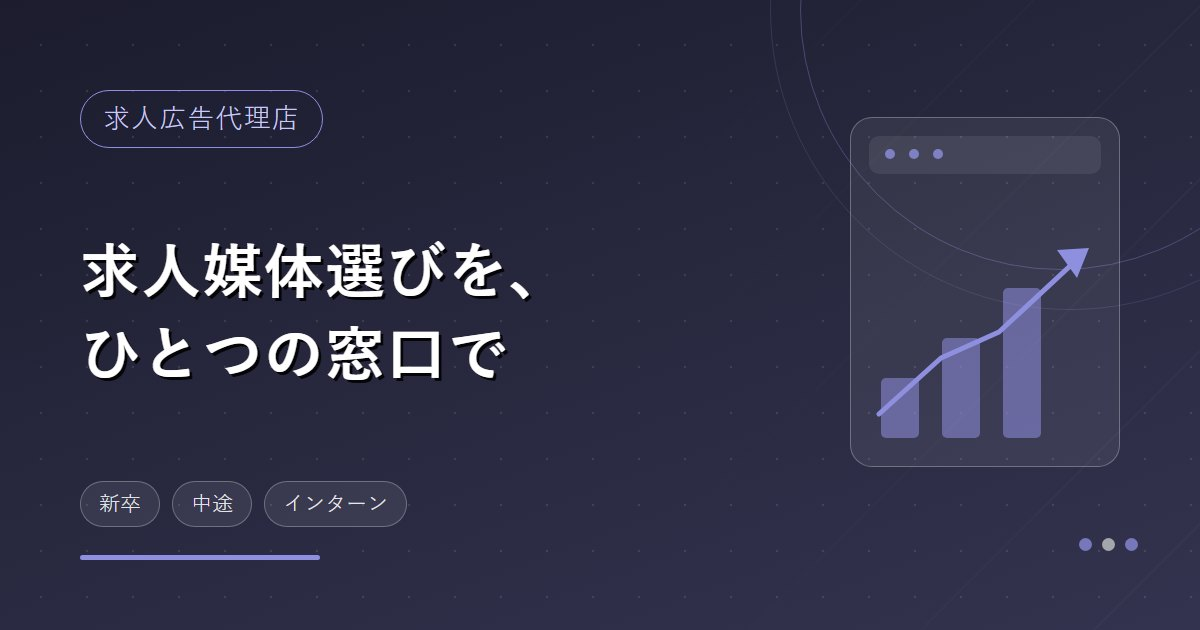
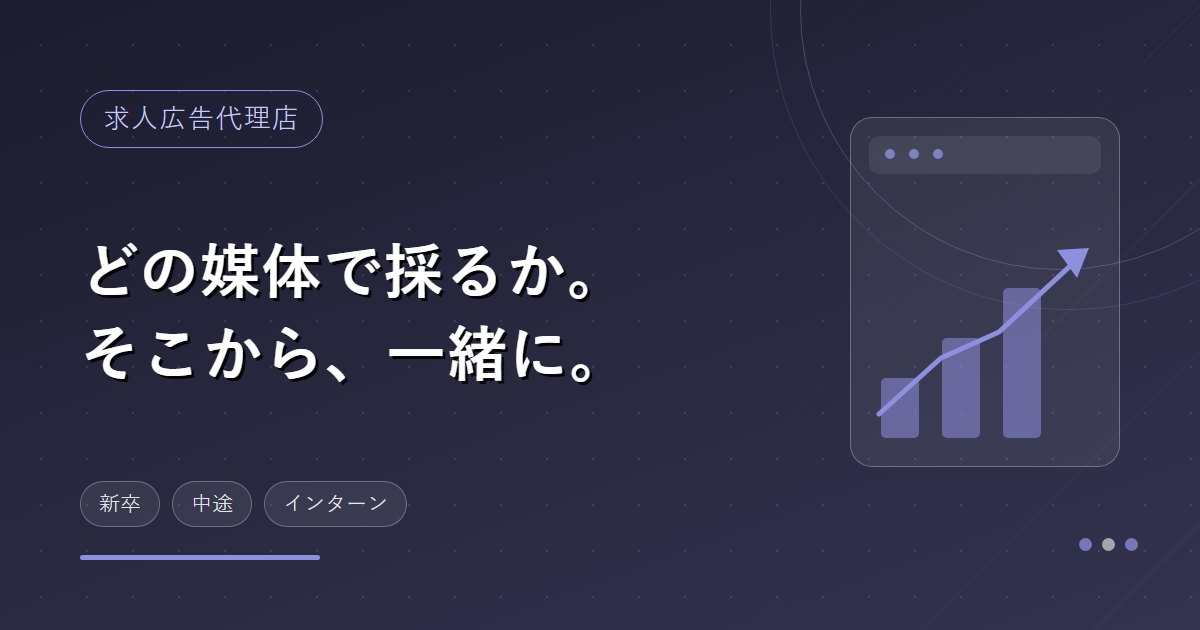
LPのOGP画像を新コンセプト「どの媒体で採るか。そこから、一緒に。」に合わせる

Changed region(s): [[0.0617, 0.3619, 0.4933, 0.4825], [0.0617, 0.5127, 0.4933, 0.6333]]

diff --git a/build-media.js b/build-media.js
@@ -1103,7 +1103,7 @@ function main() {
   }
 
   /* LP（index.html は手書き。og:image は /images/og/lp.jpg を直書きしている） */
-  og('lp', { pillar: 'site', pill: '求人広告代理店', title: '求人媒体選びを、ひとつの窓口で', chips: ['新卒', '中途', 'インターン'] });
+  og('lp', { pillar: 'site', pill: '求人広告代理店', title: 'どの媒体で採るか。そこから、一緒に。', chips: ['新卒', '中途', 'インターン'] });
   /* 同じ名前は1回だけ（ページ送りで何度も積まれるため） */
   const seenOg = new Set();
   fs.writeFileSync(path.join(DIR, 'tools', 'eyecatch', 'og-specs.json'),
